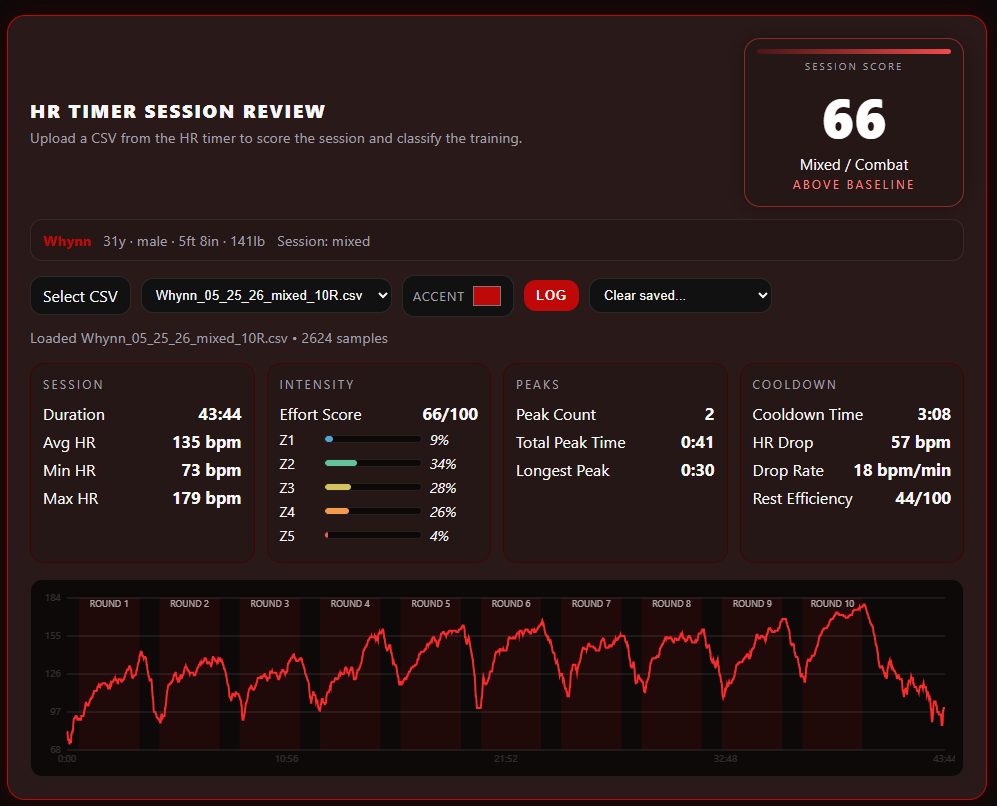
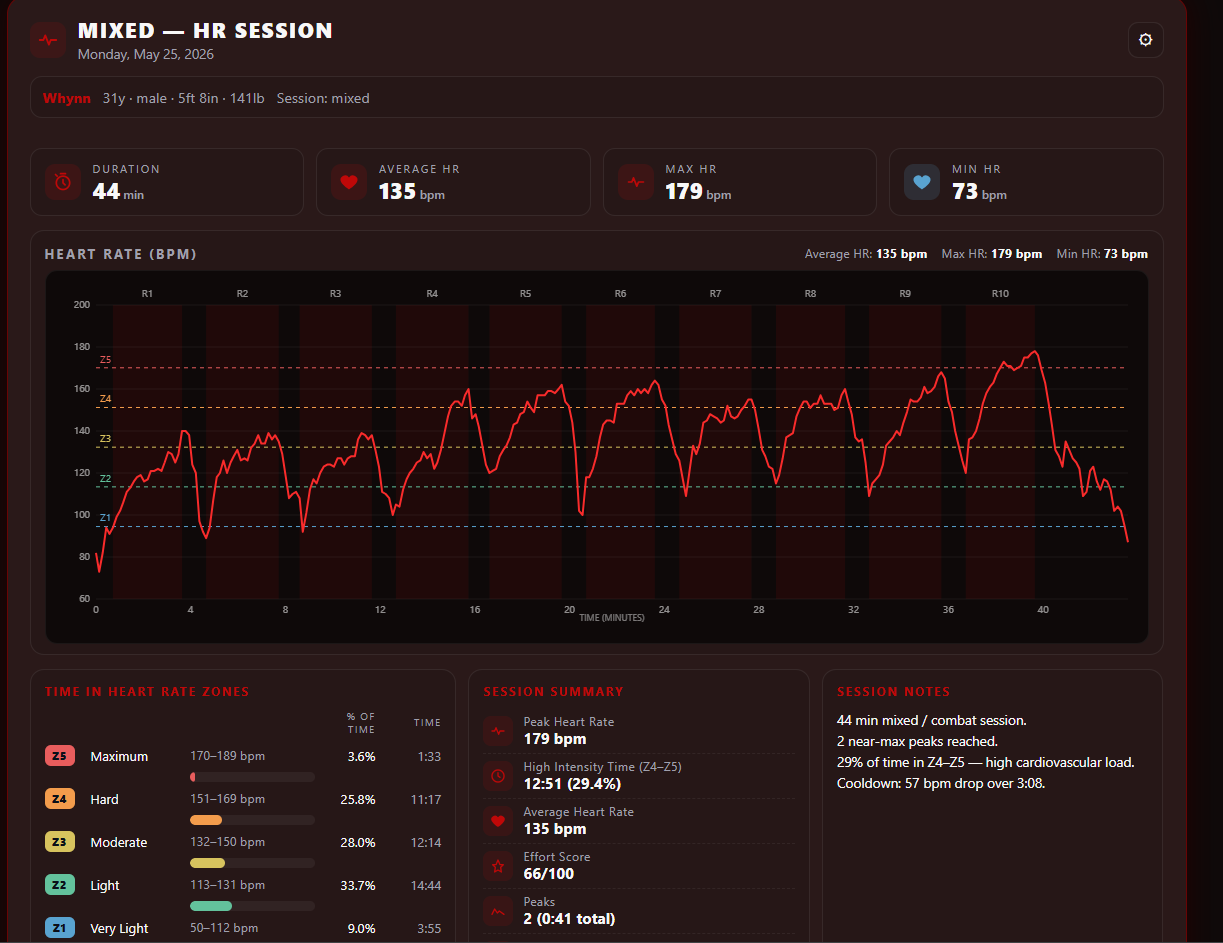
Tighten dashboard layout to fit viewport + add image export
- Reduce paddings/font sizes across panel, stat tiles, hero chart, cards,
  zones table and summary rows so the dashboard fits without scrolling
- Shrink chart height (360 -> 250) and breakpoint heights (280 -> 220, 240 -> 200)
- Add Export Image button (↓) next to gear; uses html2canvas-pro to capture
  the dashboard as a PNG named cardio-<title>-<date>.png
- Hide controls toolbar, profile banner and header buttons during capture
  so the exported image is clean for social sharing

diff --git a/analysis.html b/analysis.html
@@ -4,6 +4,7 @@
     <meta charset="UTF-8" />
     <meta name="viewport" content="width=device-width, initial-scale=1" />
     <title>HR Timer Session Review</title>
+    <script src="https://cdn.jsdelivr.net/npm/html2canvas-pro@1.5.8/dist/html2canvas-pro.min.js"></script>
     <style>
         :root {
             --theme-color: #c0322f;
@@ -36,19 +37,19 @@
             display: flex;
             justify-content: center;
             align-items: flex-start;
-            padding: 16px;
+            padding: 8px;
         }
 
         .analysis-panel {
-            width: min(96vw, 1180px);
+            width: min(98vw, 1180px);
             background: var(--card);
             border: 1px solid color-mix(in srgb, var(--accent) 55%, #000);
-            border-radius: 18px;
-            padding: clamp(14px, 2.5vmin, 22px);
+            border-radius: 16px;
+            padding: 12px 14px;
             box-shadow: 0 0 30px color-mix(in srgb, var(--accent) 18%, black);
             display: flex;
             flex-direction: column;
-            gap: 14px;
+            gap: 10px;
         }
 
         .analysis-header {
@@ -66,32 +67,32 @@
         }
 
         .analysis-title-icon {
-            width: 36px;
-            height: 36px;
+            width: 30px;
+            height: 30px;
             display: inline-flex;
             align-items: center;
             justify-content: center;
             color: var(--accent);
             background: color-mix(in srgb, var(--accent) 12%, transparent);
-            border-radius: 10px;
+            border-radius: 8px;
         }
 
         .analysis-title-icon svg {
-            width: 22px;
-            height: 22px;
+            width: 18px;
+            height: 18px;
         }
 
         .analysis-title {
             font-weight: 800;
             letter-spacing: 0.08em;
             text-transform: uppercase;
-            font-size: clamp(1.05rem, 2.2vmin, 1.35rem);
+            font-size: clamp(0.95rem, 2vmin, 1.2rem);
             line-height: 1.1;
         }
 
         .analysis-sub {
             color: var(--muted);
-            font-size: 0.85rem;
+            font-size: 0.78rem;
             margin-top: 2px;
         }
 
@@ -105,11 +106,11 @@
             background: var(--panel);
             color: var(--text);
             border: 1px solid rgba(255,255,255,0.08);
-            width: 36px;
-            height: 36px;
-            border-radius: 10px;
+            width: 32px;
+            height: 32px;
+            border-radius: 8px;
             cursor: pointer;
-            font-size: 18px;
+            font-size: 16px;
             line-height: 1;
             display: inline-flex;
             align-items: center;
@@ -323,39 +324,39 @@
         .analysis-card {
             background: var(--panel);
             border: 1px solid rgba(255,255,255,0.08);
-            border-radius: 14px;
-            padding: 14px;
+            border-radius: 12px;
+            padding: 10px 12px;
         }
 
         .analysis-card-title {
             text-transform: uppercase;
-            font-size: 0.72rem;
+            font-size: 0.68rem;
             letter-spacing: 0.18em;
             color: var(--accent);
-            margin-bottom: 10px;
+            margin-bottom: 8px;
             font-weight: 700;
         }
 
         .stat-strip {
             display: grid;
             grid-template-columns: repeat(4, 1fr);
-            gap: 12px;
+            gap: 10px;
         }
 
         .stat-tile {
             background: var(--panel);
             border: 1px solid rgba(255,255,255,0.08);
-            border-radius: 12px;
-            padding: 12px 14px;
+            border-radius: 10px;
+            padding: 8px 12px;
             display: flex;
             align-items: center;
-            gap: 12px;
+            gap: 10px;
         }
 
         .stat-tile .stat-icon {
-            width: 36px;
-            height: 36px;
-            border-radius: 10px;
+            width: 32px;
+            height: 32px;
+            border-radius: 8px;
             display: inline-flex;
             align-items: center;
             justify-content: center;
@@ -365,8 +366,8 @@
         }
 
         .stat-tile .stat-icon svg {
-            width: 20px;
-            height: 20px;
+            width: 18px;
+            height: 18px;
         }
 
         .stat-tile.minhr .stat-icon {
@@ -377,25 +378,25 @@
         .stat-tile .stat-meta {
             display: flex;
             flex-direction: column;
-            gap: 2px;
+            gap: 1px;
             min-width: 0;
         }
 
         .stat-tile .stat-label {
-            font-size: 0.7rem;
+            font-size: 0.62rem;
             letter-spacing: 0.16em;
             text-transform: uppercase;
             color: var(--muted);
         }
 
         .stat-tile .stat-value {
-            font-size: 1.4rem;
+            font-size: 1.15rem;
             font-weight: 800;
             line-height: 1.1;
         }
 
         .stat-tile .stat-unit {
-            font-size: 0.75rem;
+            font-size: 0.7rem;
             color: var(--muted);
             font-weight: 500;
             margin-left: 3px;
@@ -404,8 +405,8 @@
         .hero-chart {
             background: var(--panel);
             border: 1px solid rgba(255,255,255,0.08);
-            border-radius: 14px;
-            padding: 14px 14px 10px;
+            border-radius: 12px;
+            padding: 8px 10px 6px;
         }
 
         .hero-chart-head {
@@ -414,11 +415,11 @@
             justify-content: space-between;
             flex-wrap: wrap;
             gap: 6px;
-            margin-bottom: 8px;
+            margin-bottom: 4px;
         }
 
         .hero-chart-title {
-            font-size: 0.8rem;
+            font-size: 0.72rem;
             letter-spacing: 0.18em;
             text-transform: uppercase;
             color: var(--muted);
@@ -426,10 +427,10 @@
         }
 
         .hero-chart-summary {
-            font-size: 0.78rem;
+            font-size: 0.72rem;
             color: var(--muted);
             display: flex;
-            gap: 14px;
+            gap: 12px;
         }
 
         .hero-chart-summary strong {
@@ -439,37 +440,37 @@
 
         .analysis-chart {
             background: var(--chart-bg, #0c0f18);
-            border-radius: 12px;
+            border-radius: 10px;
             border: 1px solid rgba(255,255,255,0.06);
-            padding: 6px;
+            padding: 4px;
         }
 
         #analysisChart {
             width: 100%;
-            height: 360px;
+            height: 250px;
             display: block;
         }
 
         .bottom-grid {
             display: grid;
             grid-template-columns: 1.25fr 1fr 1fr;
-            gap: 12px;
+            gap: 10px;
         }
 
         .zones-table {
             display: grid;
-            grid-template-columns: 36px 1fr 1.4fr 50px 56px;
-            gap: 6px 10px;
+            grid-template-columns: 32px 1fr 1.3fr 44px 52px;
+            gap: 4px 8px;
             align-items: center;
-            font-size: 0.82rem;
+            font-size: 0.78rem;
         }
 
         .zones-table .zthead {
-            font-size: 0.62rem;
+            font-size: 0.6rem;
             letter-spacing: 0.14em;
             text-transform: uppercase;
             color: var(--muted);
-            margin-bottom: 4px;
+            margin-bottom: 2px;
         }
 
         .zones-table .zthead.right { text-align: right; }
@@ -536,7 +537,7 @@
             display: flex;
             align-items: center;
             gap: 10px;
-            padding: 6px 0;
+            padding: 4px 0;
         }
 
         .summary-row + .summary-row {
@@ -544,26 +545,26 @@
         }
 
         .summary-row .sicon {
-            width: 30px;
-            height: 30px;
+            width: 26px;
+            height: 26px;
             display: inline-flex;
             align-items: center;
             justify-content: center;
             color: var(--accent);
             background: color-mix(in srgb, var(--accent) 12%, transparent);
-            border-radius: 8px;
+            border-radius: 7px;
             flex-shrink: 0;
         }
 
-        .summary-row .sicon svg { width: 16px; height: 16px; }
+        .summary-row .sicon svg { width: 14px; height: 14px; }
 
-        .summary-row .stext { display: flex; flex-direction: column; line-height: 1.2; }
-        .summary-row .stext .slabel { font-size: 0.72rem; color: var(--muted); letter-spacing: 0.06em; }
-        .summary-row .stext .sval { font-size: 0.95rem; font-weight: 700; }
+        .summary-row .stext { display: flex; flex-direction: column; line-height: 1.15; }
+        .summary-row .stext .slabel { font-size: 0.66rem; color: var(--muted); letter-spacing: 0.06em; }
+        .summary-row .stext .sval { font-size: 0.88rem; font-weight: 700; }
 
         .session-notes {
-            font-size: 0.85rem;
-            line-height: 1.55;
+            font-size: 0.8rem;
+            line-height: 1.45;
             color: var(--text);
             white-space: pre-line;
         }
@@ -574,15 +575,21 @@
             font-weight: 700;
         }
 
+        .analysis-panel.exporting .header-actions,
+        .analysis-panel.exporting .analysis-controls,
+        .analysis-panel.exporting .profile-banner {
+            display: none !important;
+        }
+
         @media (max-width: 880px) {
             .stat-strip { grid-template-columns: repeat(2, 1fr); }
             .bottom-grid { grid-template-columns: 1fr; }
-            #analysisChart { height: 280px; }
+            #analysisChart { height: 220px; }
         }
 
         @media (max-width: 520px) {
             .stat-strip { grid-template-columns: 1fr; }
-            #analysisChart { height: 240px; }
+            #analysisChart { height: 200px; }
             .zones-table { grid-template-columns: 30px 1fr 1fr 44px 50px; font-size: 0.74rem; }
         }
     </style>
@@ -600,6 +607,7 @@
                 </div>
             </div>
             <div class="header-actions">
+                <button class="gear-btn" id="exportImageBtn" type="button" title="Download as image" aria-label="Download as image">⤓</button>
                 <button class="gear-btn" id="settingsToggle" type="button" title="Show controls" aria-label="Toggle controls">⚙</button>
             </div>
         </div>
@@ -868,6 +876,8 @@
                 sessionNotes: $('#sessionNotes'),
                 controls: $('#analysisControls'),
                 settingsToggle: $('#settingsToggle'),
+                exportImage: $('#exportImageBtn'),
+                panel: document.querySelector('.analysis-panel'),
                 chart: $('#analysisChart'),
                 color: $('#analysisColor'),
                 logToggle: $('#logToggle'),
@@ -2097,6 +2107,44 @@
             if (analysisEl.settingsToggle && analysisEl.controls) {
                 analysisEl.settingsToggle.addEventListener('click', () => {
                     analysisEl.controls.classList.toggle('collapsed');
+                });
+            }
+
+            if (analysisEl.exportImage && analysisEl.panel) {
+                analysisEl.exportImage.addEventListener('click', async () => {
+                    if (typeof html2canvas !== 'function') {
+                        alert('Image export library failed to load. Check your connection and reload the page.');
+                        return;
+                    }
+                    const panel = analysisEl.panel;
+                    panel.classList.add('exporting');
+                    // Force the chart to redraw at current size after layout change
+                    if (analysisState.lastSamples) {
+                        try { drawAnalysisChart(analysisState.lastSamples, analysisState.lastHrMax); } catch (_) {}
+                    }
+                    try {
+                        const bg = (getComputedStyle(root).getPropertyValue('--outside-bg') || '#111').trim() || '#111';
+                        const canvas = await html2canvas(panel, {
+                            backgroundColor: bg,
+                            scale: 2,
+                            useCORS: true,
+                            logging: false
+                        });
+                        const titleStr = (analysisEl.titleText?.textContent || 'session').trim().toLowerCase().replace(/[^a-z0-9]+/g, '-').replace(/^-+|-+$/g, '');
+                        const dateStr = new Date().toISOString().slice(0, 10);
+                        const link = document.createElement('a');
+                        link.download = `cardio-${titleStr || 'session'}-${dateStr}.png`;
+                        link.href = canvas.toDataURL('image/png');
+                        link.click();
+                    } catch (err) {
+                        console.error('Image export failed', err);
+                        alert('Image export failed: ' + (err?.message || err));
+                    } finally {
+                        panel.classList.remove('exporting');
+                        if (analysisState.lastSamples) {
+                            try { drawAnalysisChart(analysisState.lastSamples, analysisState.lastHrMax); } catch (_) {}
+                        }
+                    }
                 });
             }
             if (analysisEl.logClose) analysisEl.logClose.addEventListener('click', closeLog);